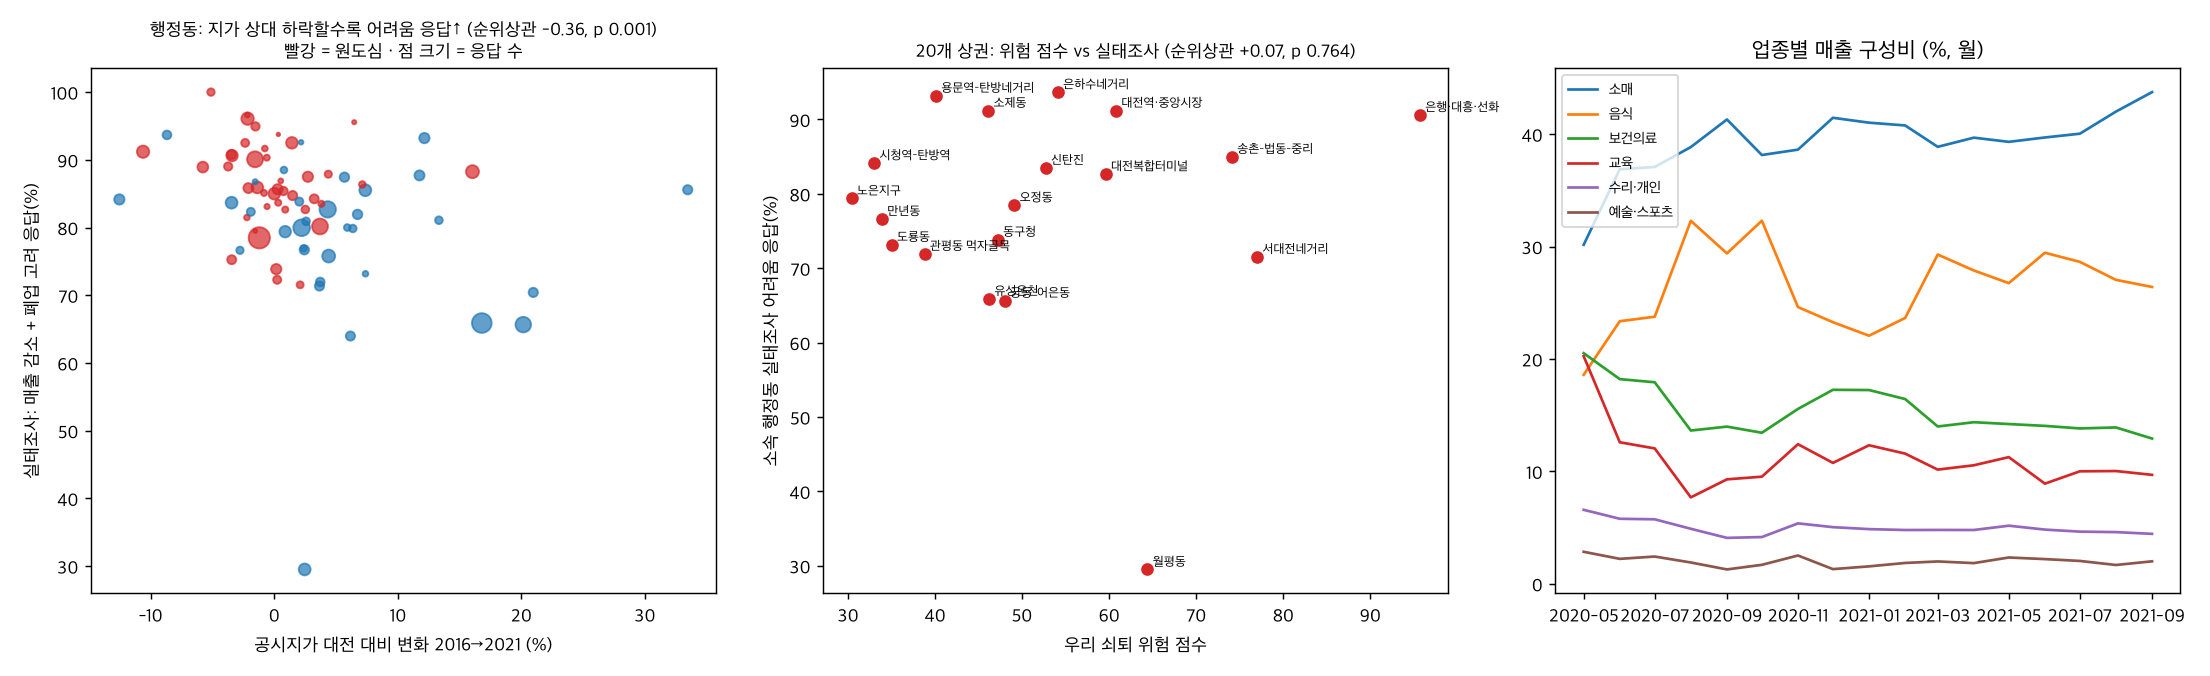
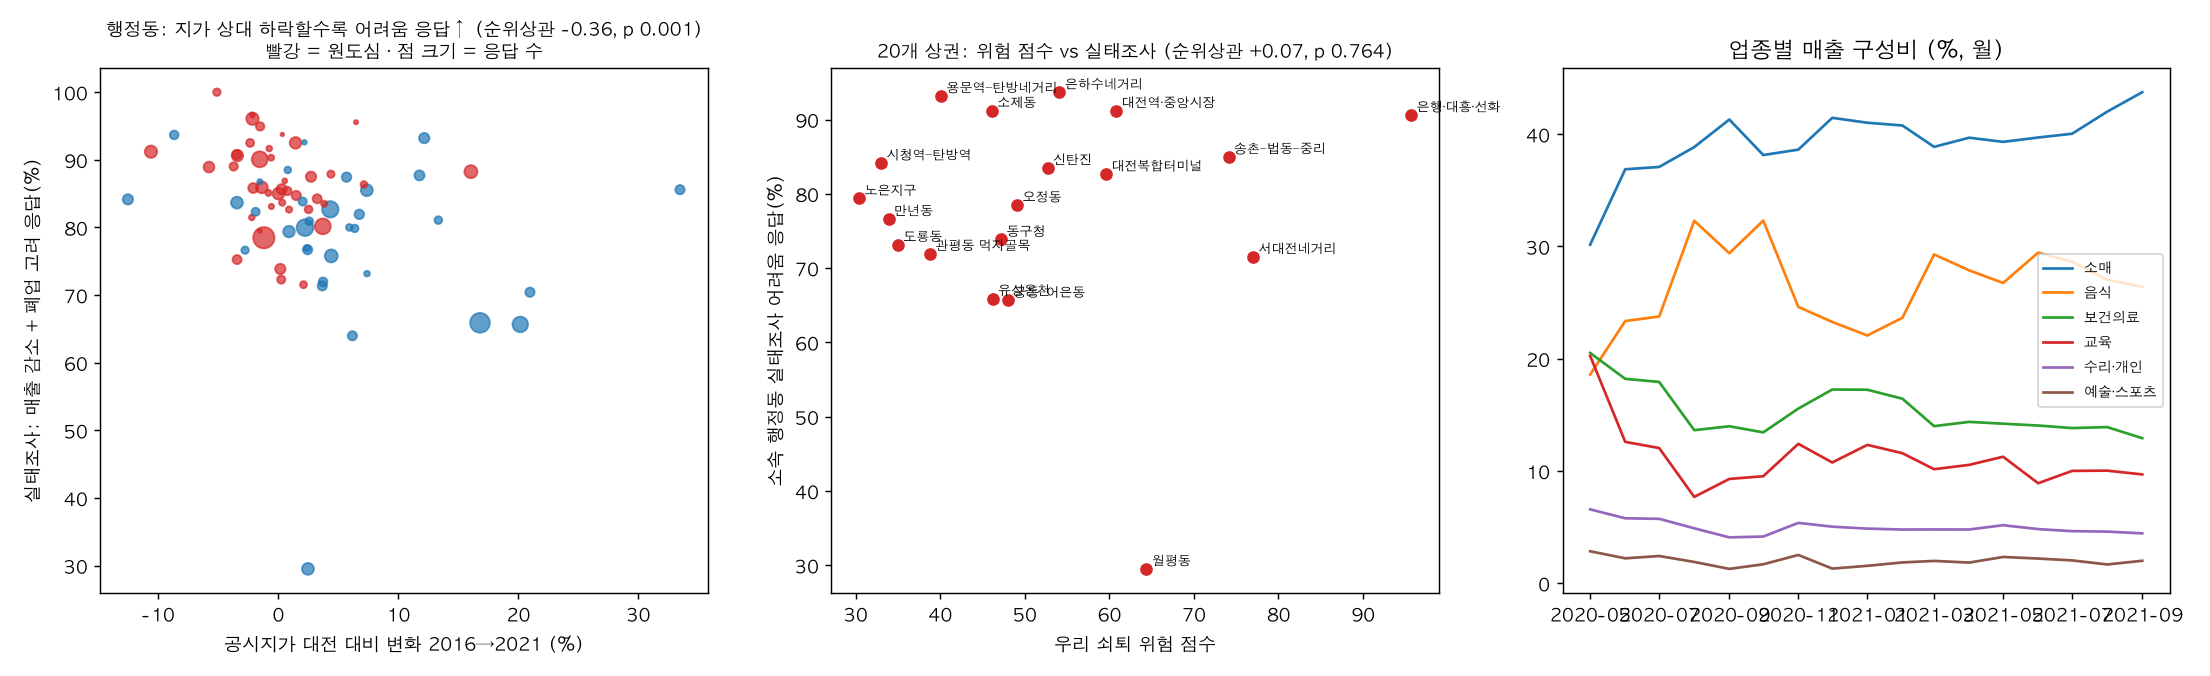
업종 점수에 1호선 인허가 카페·빵집 효과 반영

diff --git a/tram_model/score_industry.py b/tram_model/score_industry.py
@@ -1,7 +1,8 @@
 """20개 상권 × 6개 업종 '업종 상권 점수' (100점, 트램 건설 전·후).
 
 입력: outputs/store_panel.csv (상권 × 분기 × 업종 점포 수), dong_panel_store.csv (대전 전체 업종 합계용),
-      area_profile.csv (폐업률·땅값), robust_radius.csv (정거장 500m 비율), tram_effect.py (트램 효과 수준·업종 비율)
+      area_profile.csv (폐업률·땅값), robust_radius.csv (정거장 500m 비율), tram_effect.py (트램 효과 수준·업종 비율),
+      line1_permits_sector.csv + data/raw/permits (대전 1호선 인허가 업종 그룹별 점포 효과, 있으면 음식 업종에 사용)
 출력: outputs/industry_scores.csv          (상권 × 업종: 원래 값 + 항목 점수 + 전·후 점수 + 순위)
       outputs/industry_score_weights.csv   (항목·가중치·데이터·계산·근거·한계)
 
@@ -37,11 +38,15 @@ COMP = {
                  "문 닫는 가게가 적은 상권이 버티기 쉬움", "업종별 폐업률 자료가 없어 상권 공통값"),
     "land": ("땅값 흐름", 15, 1, "개별공시지가 2021·2026", "상권 땅값 5년 상승률(%)",
              "입지 가치·수요가 오르는 신호", "임대료 부담이 커질 수도 있음 (상권 공통값)"),
-    "tram": ("트램 반영 (건설 후)", 0, 1, "대전 1호선 개통 전후 땅값 + 정거장 좌표",
-             "따로 점수를 매기지 않고, 성장에 업종별 트램 효과(500m 안 비율 × 수준 × 업종 민감도)를, "
-             "땅값 흐름에 500m 안 비율 × 수준을 더해 건설 전 분포 기준으로 다시 점수화",
-             "트램이 닿는 상권만 성장·땅값 흐름이 좋아짐. 대전 1호선에서 역 500m 땅값이 개통 초기 +1.8%(기본) 더 오름",
-             "지하철 효과를 빌려 써 과대 가능, 공사 기간 손실은 반영 안 함. 효과가 작아 점수 변화도 작음"),
+    "tram": ("트램 반영 (건설 후)", 0, 1, "대전 1호선 개통 전후 점포(인허가)·땅값 + 정거장 좌표",
+             "따로 점수를 매기지 않고, 성장에 업종별 트램 효과(500m 안 비율 × 업종 효과)를, "
+             "땅값 흐름에 500m 안 비율 × 땅값 효과 수준을 더해 건설 전 분포 기준으로 다시 점수화. "
+             "음식 업종 효과 = 상권 음식점 중 카페·빵과자점 비중 × 대전 1호선 실측 점포 효과(카페 +24.8%, 빵·과자 +18.3%, "
+             "나머지 음식 업종은 효과 확인 안 됨 → 기본 0). 다른 업종은 땅값 효과 × 해외 업종 비율",
+             "대전 1호선 역 500m 안 카페 +24.8%·빵·과자 +18.3%(2002~2014 인허가 이중차분, 가짜 검정 통과). "
+             "식사 음식점·주점·간편식은 효과 확인 안 됨 → 카페·빵집이 많은 상권일수록 음식 점수가 더 오름",
+             "지하철 개통 효과를 트램에 빌려 씀, 효과는 개통 후 9년 평균, 공사 기간 손실은 반영 안 함. "
+             "음식 외 업종은 대전 실측 점포 효과가 없어 땅값 기준 그대로"),
 }
 TRAM_W = 0                              # (예전: 건설 후 트램 10점 항목) 지금은 값에 더하는 방식
 
@@ -63,6 +68,59 @@ def pct_rank(s):
     return (r - 1) / (n - 1) * 100 if n > 1 else r * 0 + 50
 
 
+FOOD_SECTORS = ["카페", "빵·과자", "간편식(분식·패스트푸드·조리판매)", "주점", "식사 음식점"]   # 편의점은 상가정보에서 소매
+
+
+def _inside(lon, lat, ring):
+    from matplotlib.path import Path as MPath
+    return MPath(np.asarray(ring)).contains_points(np.column_stack([lon, lat]))
+
+
+def food_tram_effects():
+    """상권별 음식 업종 트램 효과(%) = Σ 업종 그룹 비중 × 대전 1호선 인허가 점포 효과.
+    낮음 = 확실한 그룹(카페·빵과자)의 95% 하한, 기본 = 확실한 그룹 추정치(나머지 0), 높음 = 모든 그룹 추정치.
+    인허가 파일이나 결과가 없으면 None → 예전 방식(땅값 × 해외 업종 비율)."""
+    import contextlib, io, json
+    f = C.OUT_DIR / "line1_permits_sector.csv"
+    if not f.exists() or not list((C.RAW_DIR / "permits").glob("*.csv")):
+        return None
+    import analyze_line1_permits as AP
+    sec = pd.read_csv(f, encoding="utf-8-sig").set_index("업종")
+    with contextlib.redirect_stdout(io.StringIO()):
+        p = AP.load_permits()
+    p["sector"] = AP.sector_of(p)
+    p = p[p.close.isna() & p.sector.isin(FOOD_SECTORS)]          # 지금 영업 중인 음식 업종
+    sure = sec["판정"].astype(str).str.startswith("확실")
+    eff = {"low": sec["하한_%"].where(sure, 0.0), "base": sec["효과_%"].where(sure, 0.0), "high": sec["효과_%"]}
+    gj = json.loads((C.OUT_DIR / "sangkwon_polygons.geojson").read_text(encoding="utf-8"))
+    out = {}
+    for ft in gj["features"]:
+        geom, code = ft["geometry"], ft["properties"]["code"]
+        rings = [geom["coordinates"][0]] if geom["type"] == "Polygon" else [poly[0] for poly in geom["coordinates"]]
+        m = np.zeros(len(p), bool)
+        for ring in rings:
+            m |= _inside(p.lon.values, p.lat.values, ring)
+        mix = p.loc[m, "sector"].value_counts(normalize=True)
+        row = {"food_n_permits": int(m.sum()),
+               "cafe_share": round(float(mix.get("카페", 0)), 3), "bakery_share": round(float(mix.get("빵·과자", 0)), 3)}
+        for sc, e in eff.items():
+            row[f"food_eff_{sc}"] = float(sum(mix.get(g, 0) * e.get(g, 0.0) for g in FOOD_SECTORS)) if m.sum() >= 10 else np.nan
+        out[code] = row
+    F = pd.DataFrame(out).T
+    F.to_csv(C.OUT_DIR / "industry_food_tram_mix.csv", encoding="utf-8-sig", index_label="code")
+    return F
+
+
+def tram_effects_for(ind, code, in500, ratio, L, FM):
+    """업종·상권별 트램 효과(%, 성장에 더할 값)와 근거 표시."""
+    if ind == "음식" and FM is not None and code in FM.index and pd.notna(FM.loc[code, "food_eff_base"]):
+        r = FM.loc[code]
+        return {**{f"tram_effect_{s}": round(in500 * float(r[f"food_eff_{s}"]), 2) for s in TE.SCEN},
+                "tram_basis": "대전 1호선 인허가 업종 효과", "cafe_share": r.cafe_share, "bakery_share": r.bakery_share}
+    return {**{f"tram_effect_{s}": round(in500 * np.expm1(L[s]["log"] * ratio) * 100, 2) for s in TE.SCEN},
+            "tram_basis": "땅값 효과 × 해외 업종 비율", "cafe_share": np.nan, "bakery_share": np.nan}
+
+
 def main():
     sp = pd.read_csv(C.OUT_DIR / "store_panel.csv", dtype={"period": str}, encoding="utf-8-sig")
     dp = pd.read_csv(C.OUT_DIR / "dong_panel_store.csv", dtype={"period": str}, encoding="utf-8-sig")
@@ -71,6 +129,9 @@ def main():
     city = dp.groupby("period")[["n_stores"] + [f"n_{k}" for k in IND]].sum()
     L = TE.levels()
     max_ratio = max(TE.cat_ratio(c) for _, c in IND.values())
+    FM = food_tram_effects()
+    if FM is None:
+        print("인허가 업종 효과 없음 → 음식 업종도 땅값 × 해외 업종 비율 사용")
 
     now = sp[sp.period == NOW].set_index("code")
     past = sp[sp.period == PAST].set_index("code")
@@ -93,7 +154,7 @@ def main():
                 "land": prof.loc[code, "land_chg_5y_pct"],
                 "tram": in500 * ratio / max_ratio * 100,
                 "in500": in500,
-                **{f"tram_effect_{s}": round(in500 * np.expm1(L[s]["log"] * ratio) * 100, 2) for s in TE.SCEN},
+                **tram_effects_for(ind, code, in500, ratio, L, FM),
                 "flag": ("점포 지표 왜곡(신세계 입점 등록)" if code in ARTIFACT else
                          (f"업종 점포 {MIN_N}개 미만 → 성장·특화 제외" if not ok else "")),
             })

diff --git a/tram_model/README.md b/tram_model/README.md
@@ -257,3 +257,10 @@ python tram_model/run_all.py --from train_analyze
 - 실행: `python tram_model/analyze_line1_permits.py` (약 20초), run_all 에서는 analyze_line1_trend 다음
 - 출력: `outputs/line1_permits_effects.csv`, `line1_permits_sector.csv`, `line1_permits_es.csv`, `line1_permits_series.csv`, 그림 `line1_permits.png`, `line1_permits_sector.png`
 - 결과(2026-10-13): 전체 점포 +4.7%(−3.3~+13.3, 무작위 p 0.17, 확인 안 됨) / **카페 +24.8%(+8.0~+44.2)**, **빵·과자 +18.3%(+3.3~+35.4)** 세 검사 통과 / 편의점(격자 24개로 적음)·간편식·주점·식사 음식점 효과 확인 안 됨. 효과는 개통 3년 뒤부터 커짐(2009~14 +5~9%)
+
+### 업종 점수에 1호선 인허가 결과 반영 (2026-10-13, `score_industry.py`)
+- 음식 업종의 '건설 후' 트램 효과 = 상권 음식점 중 업종 그룹 비중 × 대전 1호선 인허가 점포 효과 (`food_tram_effects()`)
+  - 기본: 카페 +24.8%, 빵·과자 +18.3%(세 검사 통과), 나머지 그룹 0 / 낮음: 두 그룹의 95% 하한 / 높음: 모든 그룹 추정치
+  - 상권 비중은 지금 영업 중인 인허가 점포를 상권 경계(sangkwon_polygons.geojson) 안에서 셈 → `outputs/industry_food_tram_mix.csv`
+  - 인허가 파일이 없으면 예전 방식(땅값 효과 × 해외 업종 비율)으로 자동 복귀. 다른 5개 업종은 그대로
+- 결과: 음식 트램 효과(기본) 대전역·중앙시장 1.77→4.34%, 대전복합터미널 1.52→4.23%(카페 비중 16~17%), 소제동 1.77→1.54%(카페 4%). 순위 변화는 만년동 7→6위, 대전복합터미널 14→12위
